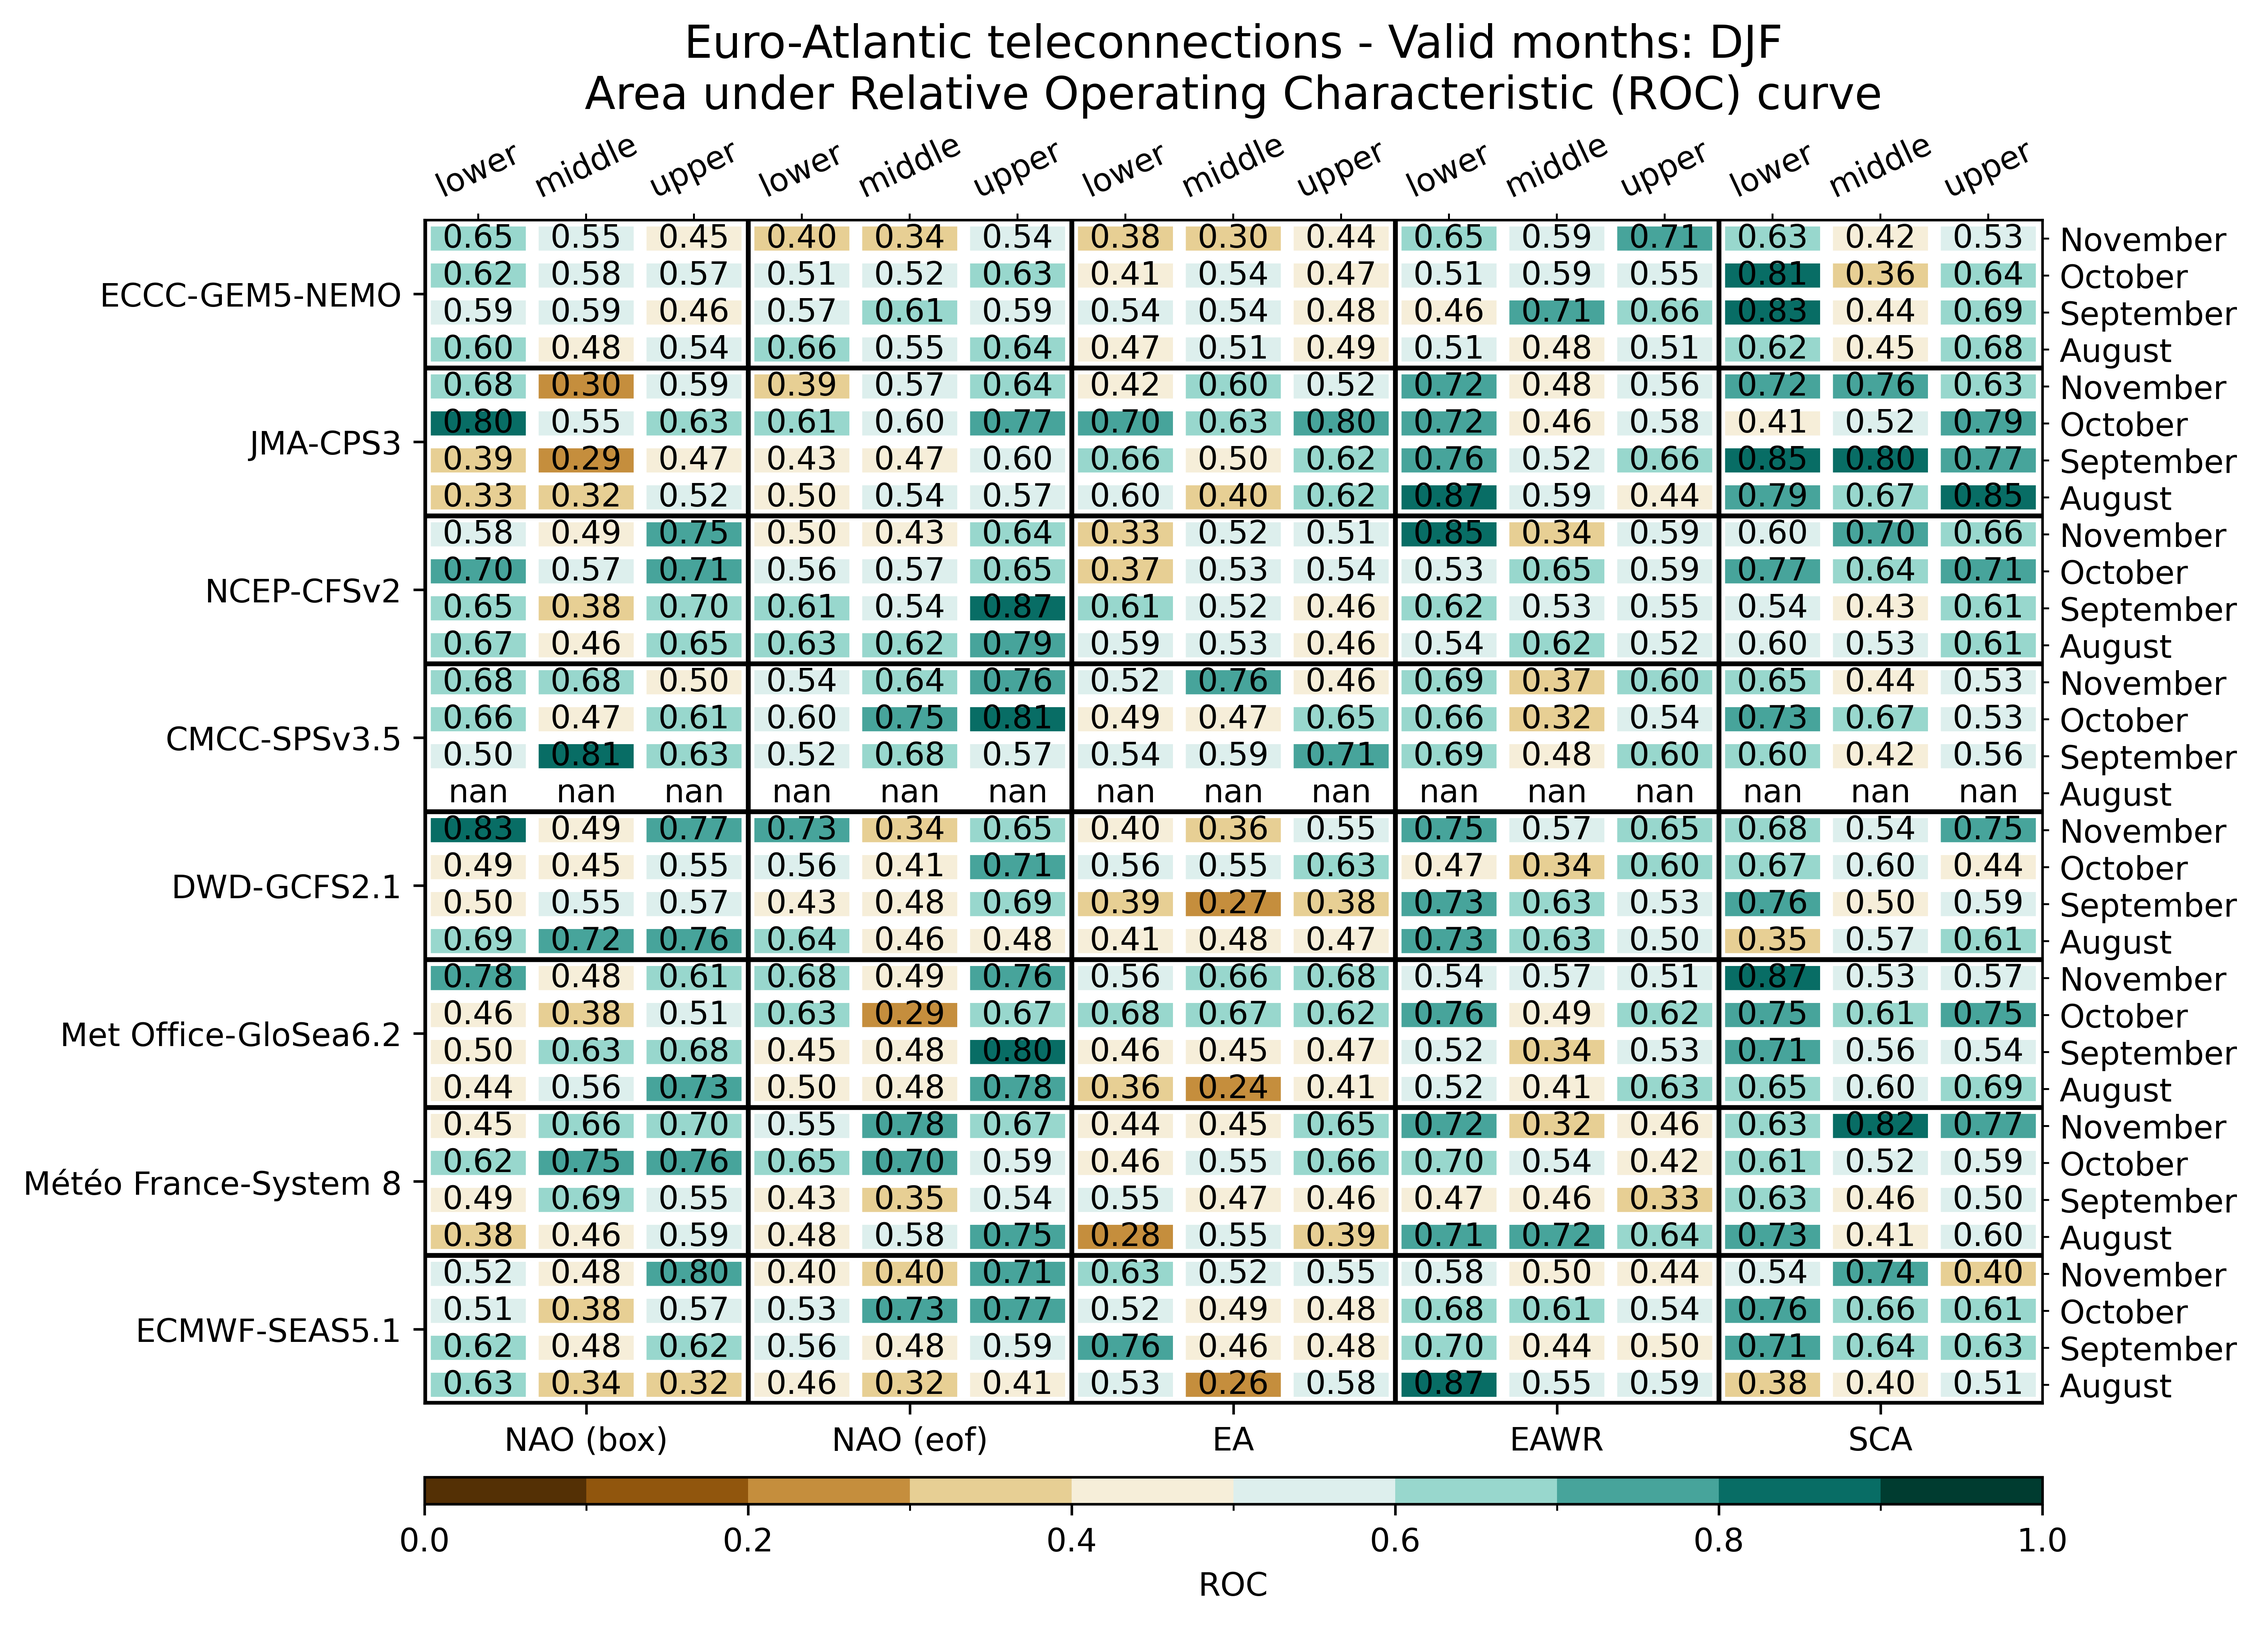
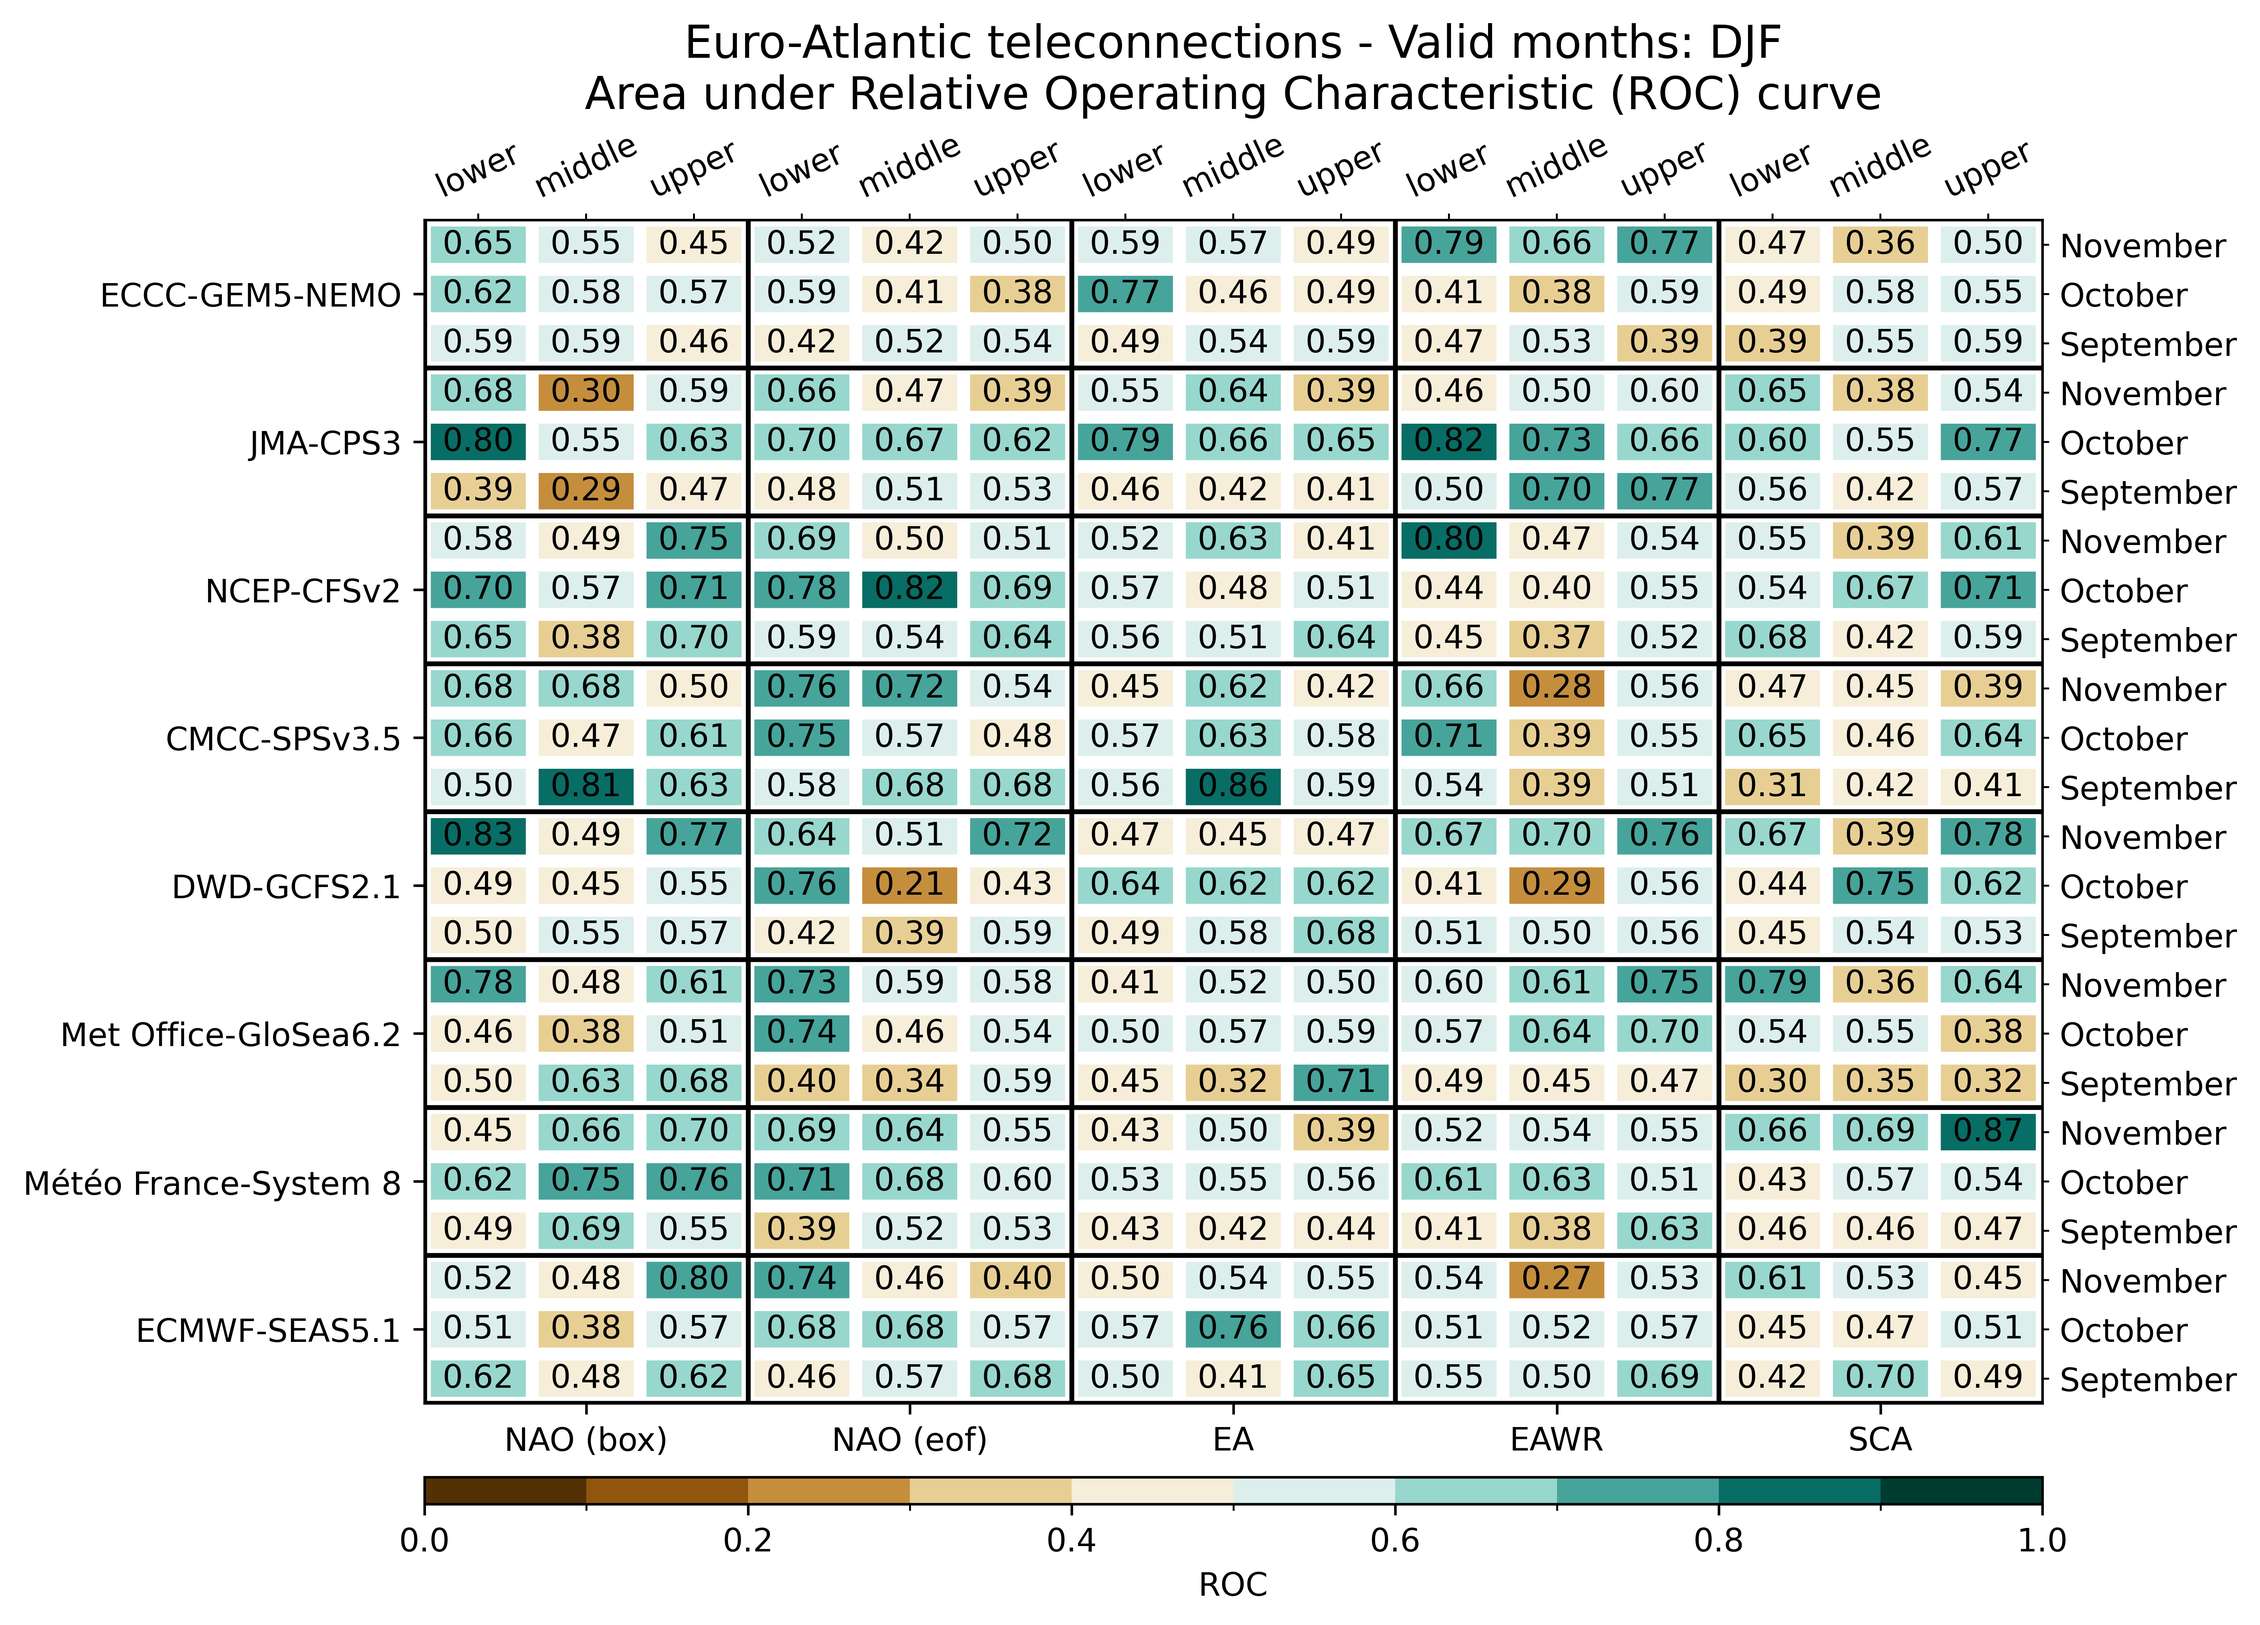
Add AMJ results 2

diff --git a/3-Var_modes/3-Common_plots/1-Plot_score-card.py b/3-Var_modes/3-Common_plots/1-Plot_score-card.py
@@ -73,7 +73,7 @@ full_name = {#'ECMWF-System 4': ['ecmwf','4'],
             }
 
 # Number of lead-times
-lts=4
+lts=3
 # List of initializations
 if aggr=='1m':
     initialization = {calendar.month_name[endmonth-(l+1) if endmonth-(l+1)>0 else endmonth-(l+1)+12]: [endmonth-(l+1) if endmonth-(l+1)>0 else endmonth-(l+1)+12, l+2] for l in reversed(range(lts))}
